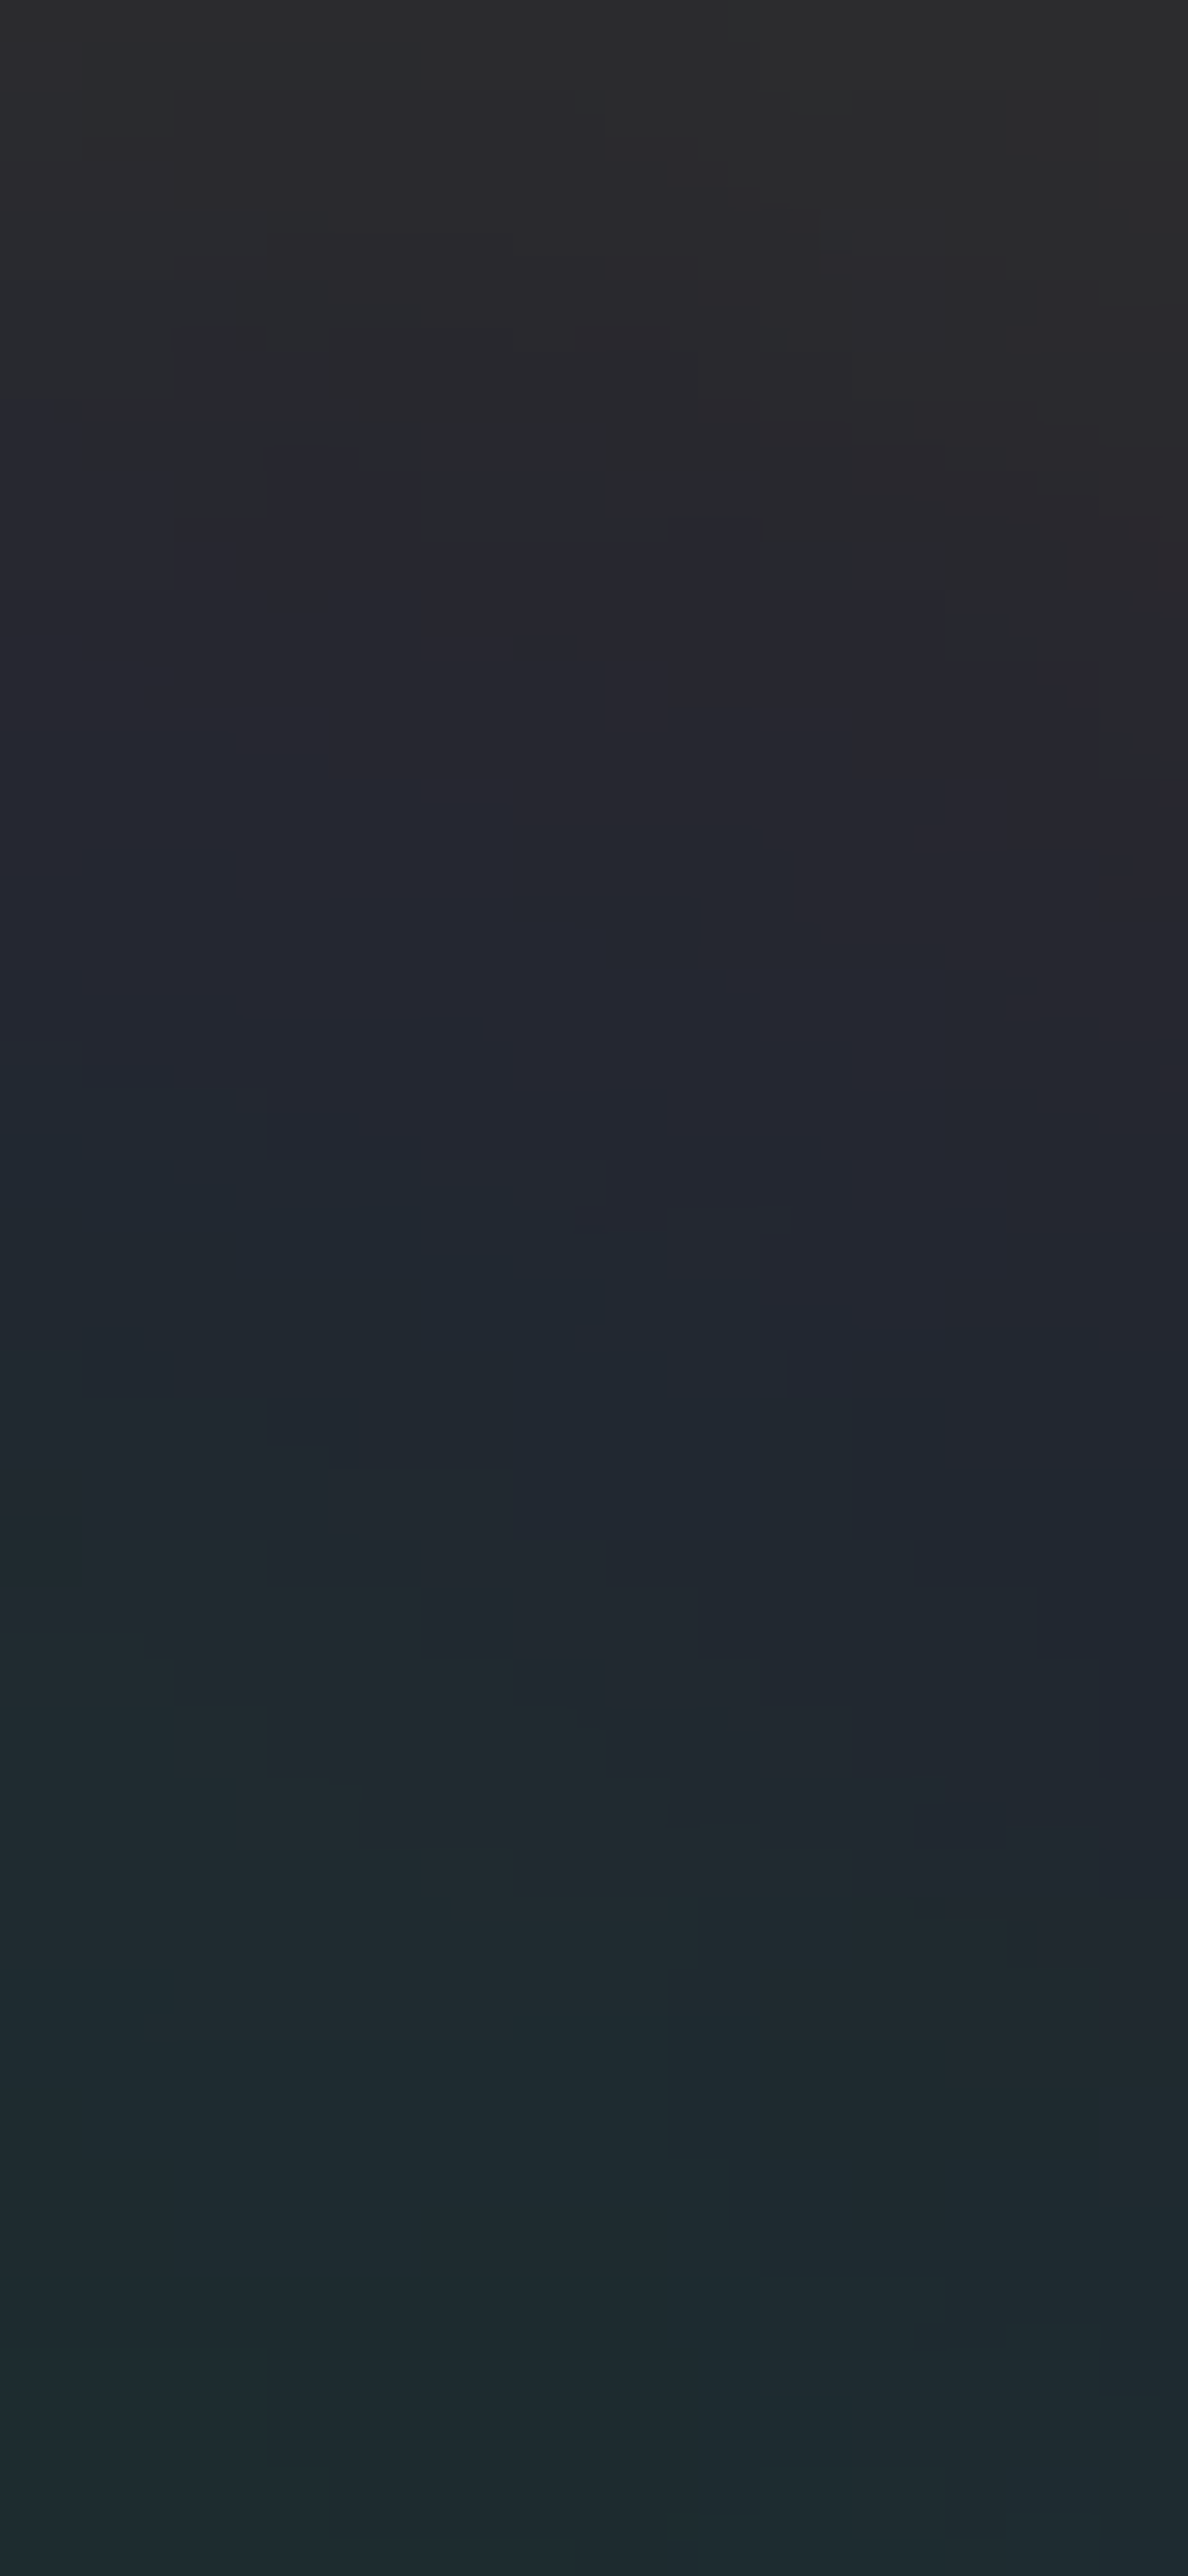
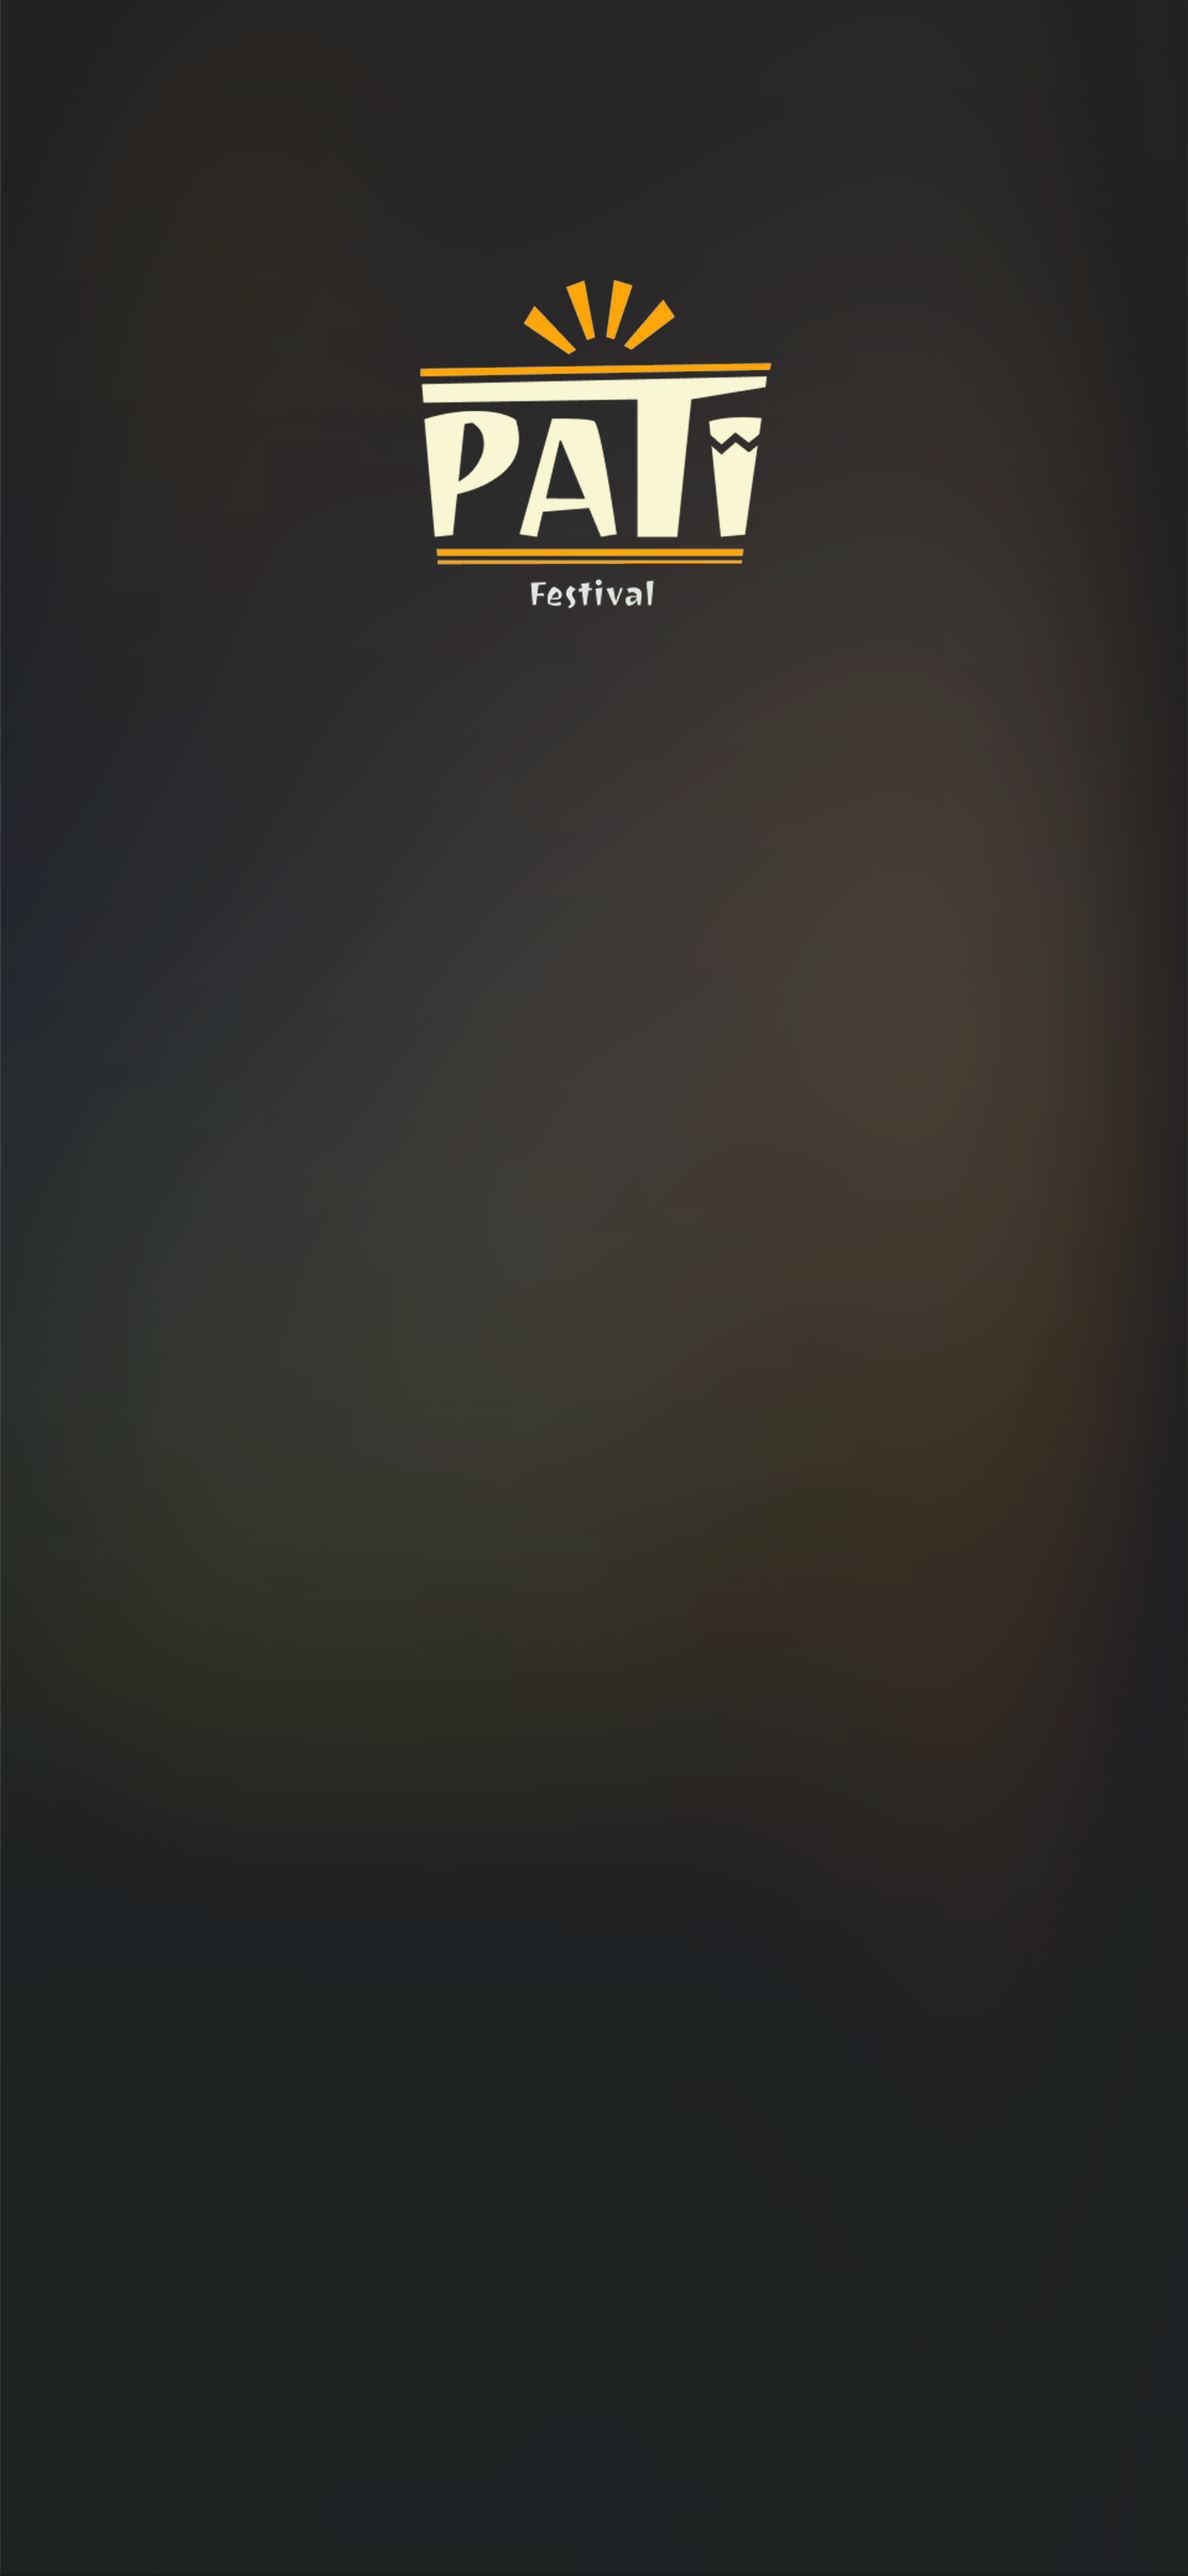
added Settings screen, finetuning

Changed region(s): [[0.3101, 0.28, 0.8992, 0.5912], [0.3411, 0.0933, 0.6512, 0.2489]]

diff --git a/src/LauncherController.ts b/src/LauncherController.ts
@@ -295,27 +295,28 @@ class LauncherController extends OperatorStates {
 
         //load images
         try {
-            if(DataModel.dataArtists['DJ Yala'] != undefined) DataModel.dataArtists['DJ Yala'].imgSrc = require('../assets/portraits/01_DJ_Yala.png');
-            if(DataModel.dataArtists['DJ Paulazo'] != undefined) DataModel.dataArtists['DJ Paulazo'].imgSrc = require('../assets/portraits/02_DJ_Paulazo.png');
-            if(DataModel.dataArtists['DJ Goodfoot'] != undefined) DataModel.dataArtists['DJ Goodfoot'].imgSrc = require('../assets/portraits/03_DJ_Goodfoot.png');
-            if(DataModel.dataArtists['DJ Puma'] != undefined) DataModel.dataArtists['DJ Puma'].imgSrc = require('../assets/portraits/04_El_Puma_DJ.png');
             if(DataModel.dataArtists['Alafia Ire'] != undefined) DataModel.dataArtists['Alafia Ire'].imgSrc = require('../assets/portraits/05_Alafia_Con_Ire.png');
-            if(DataModel.dataArtists['Helen '] != undefined) DataModel.dataArtists['Helen '].imgSrc = require('../assets/portraits/06_Helen.png');
-            if(DataModel.dataArtists['Tanja '] != undefined) DataModel.dataArtists['Tanja '].imgSrc = require('../assets/portraits/07_Tanja.png');
             if(DataModel.dataArtists['Alexander Carbo'] != undefined) DataModel.dataArtists['Alexander Carbo'].imgSrc = require('../assets/portraits/08_Alexander_Carbo.png');
-            if(DataModel.dataArtists['Lynet Rubio'] != undefined) DataModel.dataArtists['Lynet Rubio'].imgSrc = require('../assets/portraits/09_Lynet_Rivero_Rubio.png');
-            if(DataModel.dataArtists['Angela Jauregui'] != undefined) DataModel.dataArtists['Angela Jauregui'].imgSrc = require('../assets/portraits/10_Angela_de_la_Caridad_Jauregui.png');
-            if(DataModel.dataArtists['Silvio Perez'] != undefined) DataModel.dataArtists['Silvio Perez'].imgSrc = require('../assets/portraits/11_Silvio_Leroy_Perez.png');
-            if(DataModel.dataArtists['Ruggiero Palombella'] != undefined) DataModel.dataArtists['Ruggiero Palombella'].imgSrc = require('../assets/portraits/12_Ruggiero_Palombella.png');
             if(DataModel.dataArtists['Alexandra Toledo'] != undefined) DataModel.dataArtists['Alexandra Toledo'].imgSrc = require('../assets/portraits/13_Alexandra_Toledo.png');
-            if(DataModel.dataArtists['Kimberly Wirt'] != undefined) DataModel.dataArtists['Kimberly Wirt'].imgSrc = require('../assets/portraits/14_Kimberly_Wirt.png');
-            if(DataModel.dataArtists['Wendy Solanch'] != undefined) DataModel.dataArtists['Wendy Solanch'].imgSrc = require('../assets/portraits/15_Wendy_Solanch.png');
-            if(DataModel.dataArtists['Timo Lingnau'] != undefined) DataModel.dataArtists['Timo Lingnau'].imgSrc = require('../assets/portraits/16_Timo_Lingnau.png');
-            if(DataModel.dataArtists['Lucas Flemming'] != undefined) DataModel.dataArtists['Lucas Flemming'].imgSrc = require('../assets/portraits/17_Lucas_Flemming.png');
+            if(DataModel.dataArtists['Angela Jauregui'] != undefined) DataModel.dataArtists['Angela Jauregui'].imgSrc = require('../assets/portraits/10_Angela_de_la_Caridad_Jauregui.png');
+            if(DataModel.dataArtists['DJ Goodfoot'] != undefined) DataModel.dataArtists['DJ Goodfoot'].imgSrc = require('../assets/portraits/03_DJ_Goodfoot.png');
+            if(DataModel.dataArtists['DJ Paulazo'] != undefined) DataModel.dataArtists['DJ Paulazo'].imgSrc = require('../assets/portraits/02_DJ_Paulazo.png');
+            if(DataModel.dataArtists['DJ Puma'] != undefined) DataModel.dataArtists['DJ Puma'].imgSrc = require('../assets/portraits/04_El_Puma_DJ.png');
+            if(DataModel.dataArtists['DJ Yala'] != undefined) DataModel.dataArtists['DJ Yala'].imgSrc = require('../assets/portraits/01_DJ_Yala.png');
+            if(DataModel.dataArtists['Helen'] != undefined) DataModel.dataArtists['Helen'].imgSrc = require('../assets/portraits/06_Helen.png');
             if(DataModel.dataArtists['Ido Flaishon'] != undefined) DataModel.dataArtists['Ido Flaishon'].imgSrc = require('../assets/portraits/18_Ido_Flaishon.png');
-            if(DataModel.dataArtists['Sassan Alivaliollahi'] != undefined) DataModel.dataArtists['Sassan Alivaliollahi'].imgSrc = require('../assets/portraits/19_Sassan_Alivaliollahi.png');
-            if(DataModel.dataArtists['Leonardo Moya'] != undefined) DataModel.dataArtists['Leonardo Moya'].imgSrc = require('../assets/portraits/20_Leonardo_Martinez_Moya.png');
             if(DataModel.dataArtists['Jonas Reichert'] != undefined) DataModel.dataArtists['Jonas Reichert'].imgSrc = require('../assets/portraits/21_Jonas_Reichert.png');
+            if(DataModel.dataArtists['Kimberly Wirt'] != undefined) DataModel.dataArtists['Kimberly Wirt'].imgSrc = require('../assets/portraits/14_Kimberly_Wirt.png');
+            if(DataModel.dataArtists['Leonardo Moya'] != undefined) DataModel.dataArtists['Leonardo Moya'].imgSrc = require('../assets/portraits/20_Leonardo_Martinez_Moya.png');
+            if(DataModel.dataArtists['Lucas Flemming'] != undefined) DataModel.dataArtists['Lucas Flemming'].imgSrc = require('../assets/portraits/17_Lucas_Flemming.png');
+            if(DataModel.dataArtists['Lynet Rubio'] != undefined) DataModel.dataArtists['Lynet Rubio'].imgSrc = require('../assets/portraits/09_Lynet_Rivero_Rubio.png');
+            if(DataModel.dataArtists['Ruggiero Palombella'] != undefined) DataModel.dataArtists['Ruggiero Palombella'].imgSrc = require('../assets/portraits/12_Ruggiero_Palombella.png');
+            if(DataModel.dataArtists['Sassan Alivaliollahi'] != undefined) DataModel.dataArtists['Sassan Alivaliollahi'].imgSrc = require('../assets/portraits/19_Sassan_Alivaliollahi.png');
+            if(DataModel.dataArtists['Silvio Perez'] != undefined) DataModel.dataArtists['Silvio Perez'].imgSrc = require('../assets/portraits/11_Silvio_Leroy_Perez.png');
+            if(DataModel.dataArtists['Tanja'] != undefined) DataModel.dataArtists['Tanja'].imgSrc = require('../assets/portraits/07_Tanja.png');
+            if(DataModel.dataArtists['Timo Lingnau'] != undefined) DataModel.dataArtists['Timo Lingnau'].imgSrc = require('../assets/portraits/16_Timo_Lingnau.png');
+            if(DataModel.dataArtists['Wendy Solanch'] != undefined) DataModel.dataArtists['Wendy Solanch'].imgSrc = require('../assets/portraits/15_Wendy_Solanch.png');
+        
         } catch (error) {
             console.log('Could not assign an image for a particular artist')
         }

diff --git a/src/components/screens/SettingsScreen.tsx b/src/components/screens/SettingsScreen.tsx
@@ -15,7 +15,7 @@ class SettingsScreen extends PureComponent {
 
     static settingsItemRendererHeight = 50;
     static settingsListData = [
-        { title: "Download Full Schedule as PDF", action: ActionMoreDownloadPdf },
+        // { title: "Download Full Schedule as PDF", action: ActionMoreDownloadPdf },
         // { title: "Contact QALDF Organizers", action: ActionMoreContactFestival},
         // { title: `Contact App Creator`, action: ActionMoreContactAppDev },
         // { title: "About App" }
@@ -28,10 +28,9 @@ class SettingsScreen extends PureComponent {
     render() {
 
         let socialBarData = [
-            { id: 0, itemText: "Instagram", account: "queer_afro_latin_dance_fest", imgSrc: require('../../../assets/icon-social-insta.png') },
-            { id: 1, itemText: "Youtube", account: "UCUOPjCArvYfJ7bEvNkJYsRQ", imgSrc: require('../../../assets/icon-social-youtube.png') },
-            { id: 3, itemText: "Facebook", account: "761248704084273", imgSrc: require('../../../assets/icon-social-facebook.png') },
-            { id: 4, itemText: "Web", account: "https://queerafrolatindancefestival.com", imgSrc: require('../../../assets/icon-social-web.png') }
+            { id: 0, itemText: "Instagram", account: "patifestival_berlin", imgSrc: require('../../../assets/icon-social-insta.png') },
+            { id: 3, itemText: "Facebook", account: "171550106045951", imgSrc: require('../../../assets/icon-social-facebook.png') },
+            { id: 4, itemText: "Web", account: "https://patifestival.com", imgSrc: require('../../../assets/icon-social-web.png') }
         ]
 
         let iconSize = 35;
@@ -63,7 +62,7 @@ class SettingsScreen extends PureComponent {
                     source={require('../../../assets/screen-settings-bg.png')}
                 />
 
-                <Image
+                {/* <Image
                     source={require('../../../assets/logo-full.png')}
                     style={{
                         position: 'absolute', resizeMode: 'contain', opacity: 1.0,
@@ -71,7 +70,7 @@ class SettingsScreen extends PureComponent {
                         width: 150,
                         height: 150 * 800 / 768,
                     }}
-                />
+                /> */}
 
 
                 {/* <ScreenHeader text="SETTINGS" color='#eeecdf' /> */}
@@ -80,7 +79,7 @@ class SettingsScreen extends PureComponent {
 
                 {/* FIRST LIST with Settings and Contact Items */}
 
-                <View style={{
+                {/* <View style={{
                     position: 'absolute',
                     backgroundColor: '#1c1919',
                     left: 0, top: 290,
@@ -88,10 +87,10 @@ class SettingsScreen extends PureComponent {
                     height: (SettingsScreen.settingsItemRendererHeight * SettingsScreen.settingsListData.length + 2 * 5),
                     opacity: 0.4,
                 }}
-                />
+                /> */}
 
 
-                <FlatList
+                {/* <FlatList
                     style={{
                         position: 'absolute',
                         // backgroundColor: '#1c1919',
@@ -103,13 +102,13 @@ class SettingsScreen extends PureComponent {
                     // contentContainerStyle={{borderRadius: 6, overflow: 'hidden'}}
                     data={SettingsScreen.settingsListData}
                     renderItem={SettingsItemRenderer}
-                />
+                /> */}
 
 
 
                 <Text allowFontScaling={false} id='textList1' style={[{
                     position: 'absolute',
-                    top: 400,
+                    top: 390,
                     left: 0,
                     height: 15,
                     width: Dimensions.get('screen').width,

diff --git a/src/components/schedulelist/ScheduleListItemType1.tsx b/src/components/schedulelist/ScheduleListItemType1.tsx
@@ -280,25 +280,25 @@ class ScheduleListItemType1 extends PureComponent<any, any> {
                 source={null}
                 style={{
                   position: 'absolute',
-                  right: (item.orientation == 'right' ? undefined : (4 + 32)),
-                  left: (item.orientation == 'left' ? undefined : (4 + 32)),
+                  right: (item.orientation == 'right' ? undefined : (4 + 29)),
+                  left: (item.orientation == 'left' ? undefined : (4 + 29)),
                   top: (63 + verticalOffsetTitleLength),
-                  height: 23, width: 100,
+                  height: 23, width: 120,
                 }}
                 text={"ARTIST DETAILS"}
                 bgBoxVisible={true}
                 bgBoxStyle={{
                   backgroundColor: '#36373a',
-                  height: 23, width: 100
+                  height: 23, width: 120
                 }}
                 fontStyle={{
-                  width: 100,
+                  width: 120,
                   fontFamily: 'RobotoCondensed-Regular',
                   textAlign: 'center',
                   textAlignVertical: 'center',
                   letterSpacing: 2.0,
-                  color: '#FFFFFF',
-                  fontSize: 8.5,
+                  color: '#f2a33a',
+                  fontSize: 10,
                 }}
                 visualProperties={{ alpha: 1 }}
                 onSelect={() => {

diff --git a/src/components/navbar/NavBar.tsx b/src/components/navbar/NavBar.tsx
@@ -8,8 +8,8 @@ const NavBar = (props) => {
     let navBarData = props.data
     let HighlightRendererComponent = props.highlightRenderer;
 
-    let iconSize = 65;
-    let itemDistance = 90
+    let iconSize = 76;
+    let itemDistance = 95
     let startX = (Dimensions.get('screen').width / 2 - ((navBarData.length - 1) * itemDistance) / 2) - iconSize / 2
 
     return (
@@ -62,8 +62,8 @@ const NavBar = (props) => {
                                 fontFamily: 'Arcon-Regular',
                                 textAlign: 'center',
                                 letterSpacing: 1.7,
-                                color: '#f8f6d3',
-                                fontSize: 10,
+                                color: '#f4f3ea',
+                                fontSize: 11,
                             }}
                         />
                     </Fragment>

diff --git a/src/Launcher.tsx b/src/Launcher.tsx
@@ -50,7 +50,7 @@ class Launcher extends PureComponent<any, any> {
                                 {/* <FocusFragment/> */}
                                 <HomeScreen />
                                 <ArtistMainScreen />
-                                {/* <SettingsScreen /> */}
+                                <SettingsScreen />
 
                                 <NavBar highlightRenderer={NavBarHighlight} data={LauncherController.getInstance().navBarData} />
                                 {/* <ScreenHeader text="" color='#FFFFFF' /> */}

diff --git a/src/components/screens/SchedulerScreen.tsx b/src/components/screens/SchedulerScreen.tsx
@@ -106,7 +106,7 @@ class SchedulerScreen extends PureComponent {
 
 
                     <TabBar ></TabBar>
-                    <ScreenHeader text={"FESTIVAL PROGRAM"} color='#FBB03A' />
+                    <ScreenHeader text={"FESTIVAL PROGRAM"} color='#f8f6d3' />
                     {(Platform.OS == 'android') &&
                         <View
                             style={{
